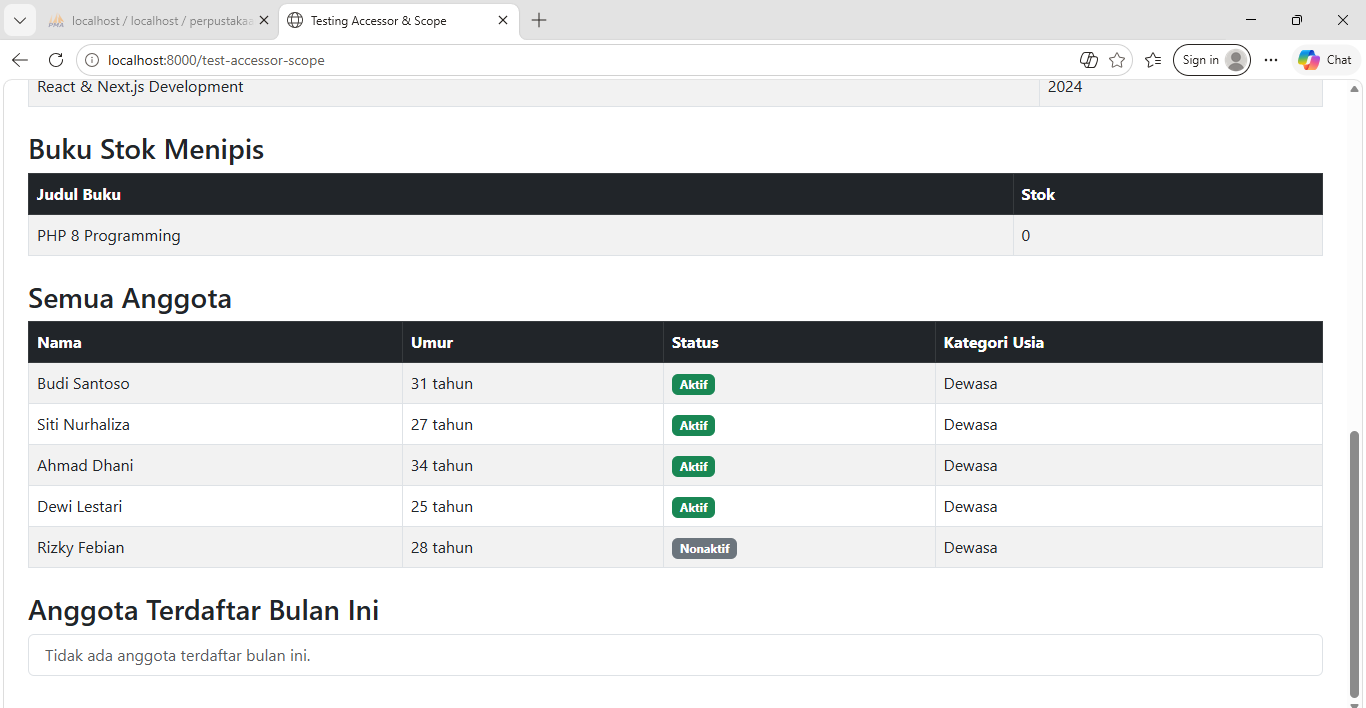
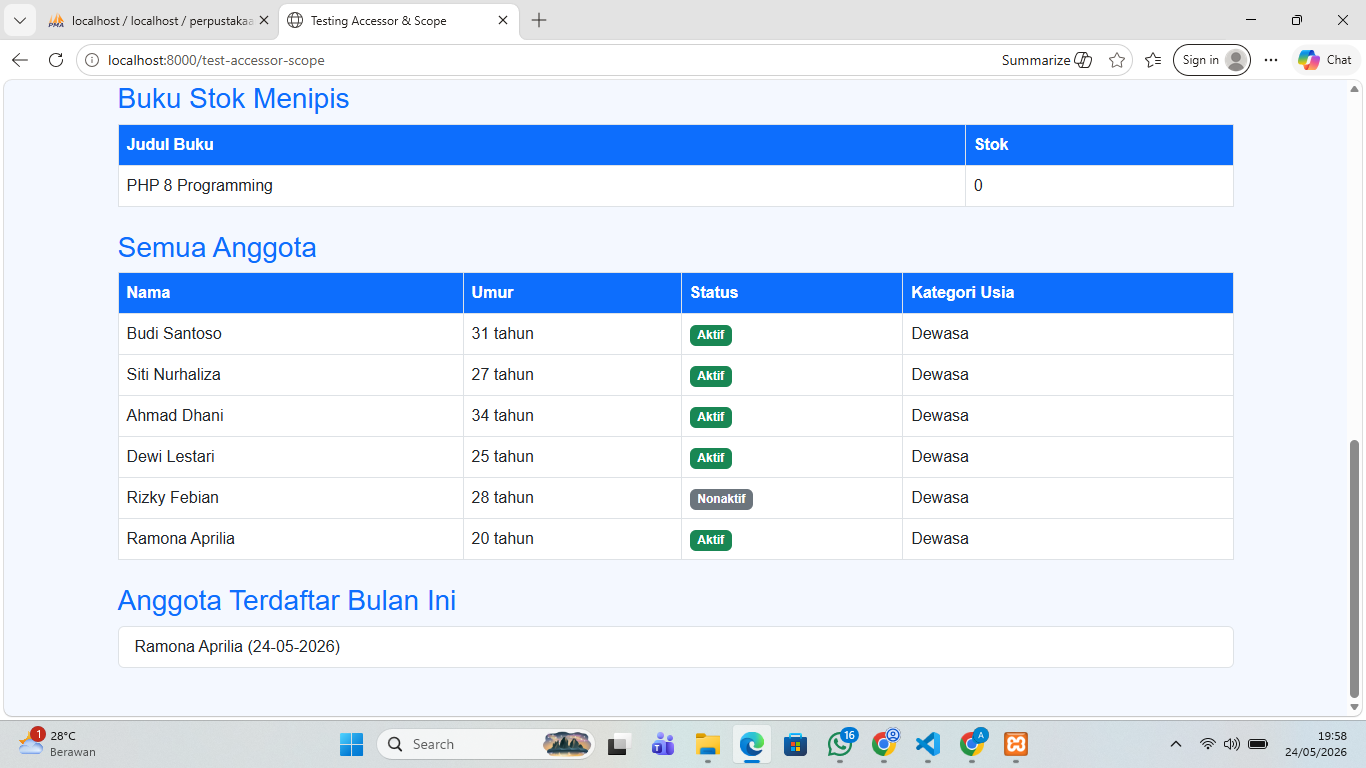
inisialisasi Project

diff --git a/sistem-perpustakaan (tugas 10)/routes/web.php b/sistem-perpustakaan (tugas 10)/routes/web.php
@@ -174,29 +174,77 @@ Route::get('/cek-kategori', function () {
 //TESTING ACCESSOR & SCOPE
 
 Route::get('/test-accessor-scope', function () {
-    $html = '<!DOCTYPE html>
+
+    $html = '
+    <!DOCTYPE html>
     <html>
     <head>
         <meta charset="UTF-8">
         <title>Testing Accessor & Scope</title>
+
         <link rel="stylesheet" href="https://cdn.jsdelivr.net/npm/bootstrap@5.3.0/dist/css/bootstrap.min.css">
+
+        <style>
+
+            body{
+                background:#f4f8ff;
+                font-family: Arial, sans-serif;
+            }
+
+            .judul{
+                color:#0d6efd;
+                font-weight:bold;
+            }
+
+            .custom-table thead{
+                background:#0d6efd !important;
+                color:white !important;
+            }
+
+            .custom-table th{
+                background:#0d6efd !important;
+                color:white !important;
+            }
+
+        </style>
+
     </head>
-    <body class="p-4">';
 
-    $html .= '<h1 class="mb-4">Testing Accessor & Scope</h1>';
+    <body class="p-4">
 
-    //Semua Buku: status_stok_badge & tahun_label 
-    $html .= '<h3 class="mt-4"> Semua Buku </h3>';
-    $html .= '<table class="table table-bordered table-striped">';
-    $html .= '<thead class="table-dark"><tr>
+    <div class="container">
+
+    <h1 class="mb-4 judul">
+        Testing Accessor & Scope
+    </h1>';
+
+
+
+    // =========================================
+    // SEMUA BUKU
+    // =========================================
+
+    $html .= '<h3 class="mt-4 text-primary">Semua Buku</h3>';
+
+    $html .= '
+    <table class="table table-bordered table-hover bg-white custom-table">
+
+        <thead>
+            <tr>
                 <th>Judul</th>
                 <th>Tahun</th>
                 <th>Stok</th>
                 <th>Status Stok</th>
                 <th>Label Tahun</th>
-              </tr></thead><tbody>';
+            </tr>
+        </thead>
+
+        <tbody>';
+
     foreach (Buku::all() as $buku) {
-        $html .= "<tr>
+
+        $html .= "
+        <tr>
             <td>{$buku->judul}</td>
             <td>{$buku->tahun_terbit}</td>
             <td>{$buku->stok}</td>
@@ -204,81 +252,182 @@ Route::get('/test-accessor-scope', function () {
             <td>{$buku->tahun_label}</td>
         </tr>";
     }
-    $html .= '</tbody></table>';
 
-    //Buku Terbaru (scope) 
-    $html .= '<h3 class="mt-4">Buku Terbaru </h3>';
-    $html .= '<table class="table table-bordered table-striped">';
-    $html .= '<thead class="table-dark"><tr>
+    $html .= '
+        </tbody>
+    </table>';
+
+
+
+    // =========================================
+    // BUKU TERBARU
+    // =========================================
+
+    $html .= '<h3 class="mt-4 text-primary">Buku Terbaru</h3>';
+
+    $html .= '
+    <table class="table table-bordered table-hover bg-white custom-table">
+
+        <thead>
+            <tr>
                 <th>Judul Buku</th>
                 <th>Tahun</th>
-              </tr></thead><tbody>';
+            </tr>
+        </thead>
+
+        <tbody>';
+
     $terbaru = Buku::terbaru()->get();
+
     if ($terbaru->isEmpty()) {
-        $html .= "<tr><td colspan='2' class='text-muted text-center'>Tidak ada data.</td></tr>";
+
+        $html .= "
+        <tr>
+            <td colspan='2' class='text-center text-muted'>
+                Tidak ada data
+            </td>
+        </tr>";
+
     } else {
+
         foreach ($terbaru as $buku) {
-            $html .= "<tr>
+
+            $html .= "
+            <tr>
                 <td>{$buku->judul}</td>
                 <td>{$buku->tahun_terbit}</td>
             </tr>";
         }
     }
-    $html .= '</tbody></table>';
 
-    //Buku Stok Menipis (scope) 
-    $html .= '<h3 class="mt-4"> Buku Stok Menipis </h3>';
-    $html .= '<table class="table table-bordered table-striped">';
-    $html .= '<thead class="table-dark"><tr>
+    $html .= '
+        </tbody>
+    </table>';
+
+
+
+    // =========================================
+    // BUKU STOK MENIPIS
+    // =========================================
+
+    $html .= '<h3 class="mt-4 text-primary">Buku Stok Menipis</h3>';
+
+    $html .= '
+    <table class="table table-bordered table-hover bg-white custom-table">
+
+        <thead>
+            <tr>
                 <th>Judul Buku</th>
                 <th>Stok</th>
-              </tr></thead><tbody>';
+            </tr>
+        </thead>
+
+        <tbody>';
+
     $menipis = Buku::stokMenipis()->get();
+
     if ($menipis->isEmpty()) {
-        $html .= "<tr><td colspan='2' class='text-muted text-center'>Tidak ada data.</td></tr>";
+
+        $html .= "
+        <tr>
+            <td colspan='2' class='text-center text-muted'>
+                Tidak ada data
+            </td>
+        </tr>";
+
     } else {
+
         foreach ($menipis as $buku) {
-            $html .= "<tr>
+
+            $html .= "
+            <tr>
                 <td>{$buku->judul}</td>
                 <td>{$buku->stok}</td>
             </tr>";
         }
     }
-    $html .= '</tbody></table>';
 
-    //Semua Anggota: status_badge & kategori_usia 
-    $html .= '<h3 class="mt-4">Semua Anggota</h3>';
-    $html .= '<table class="table table-bordered table-striped">';
-    $html .= '<thead class="table-dark"><tr>
+    $html .= '
+        </tbody>
+    </table>';
+
+
+
+    // =========================================
+    // SEMUA ANGGOTA
+    // =========================================
+
+    $html .= '<h3 class="mt-4 text-primary">Semua Anggota</h3>';
+
+    $html .= '
+    <table class="table table-bordered table-hover bg-white custom-table">
+
+        <thead>
+            <tr>
                 <th>Nama</th>
                 <th>Umur</th>
                 <th>Status</th>
                 <th>Kategori Usia</th>
-              </tr></thead><tbody>';
+            </tr>
+        </thead>
+
+        <tbody>';
+
     foreach (Anggota::all() as $anggota) {
-        $html .= "<tr>
+
+        $html .= "
+        <tr>
             <td>{$anggota->nama}</td>
             <td>{$anggota->umur} tahun</td>
             <td>{$anggota->status_badge}</td>
             <td>{$anggota->kategori_usia}</td>
         </tr>";
     }
-    $html .= '</tbody></table>';
 
-    //Anggota Terdaftar Bulan Ini (scope) 
-    $html .= '<h3 class="mt-4">Anggota Terdaftar Bulan Ini</h3>';
-    $html .= '<ul class="list-group mb-3">';
+    $html .= '
+        </tbody>
+    </table>';
+
+
+
+    // =========================================
+    // ANGGOTA TERDAFTAR BULAN INI
+    // =========================================
+
+    $html .= '
+    <h3 class="mt-4 text-primary">
+        Anggota Terdaftar Bulan Ini
+    </h3>';
+
+    $html .= '<ul class="list-group mb-4">';
+
     $bulanIni = Anggota::terdaftarBulanIni()->get();
+
     if ($bulanIni->isEmpty()) {
-        $html .= "<li class='list-group-item text-muted'>Tidak ada anggota terdaftar bulan ini.</li>";
+
+        $html .= "
+        <li class='list-group-item text-muted'>
+            Tidak ada anggota terdaftar bulan ini
+        </li>";
+
     } else {
+
         foreach ($bulanIni as $anggota) {
-            $html .= "<li class='list-group-item'>{$anggota->nama} — daftar: {$anggota->tanggal_daftar->format('d-m-Y')}</li>";
+
+            $html .= "
+            <li class='list-group-item'>
+                {$anggota->nama}
+                ({$anggota->tanggal_daftar->format('d-m-Y')})
+            </li>";
         }
     }
-    $html .= '</ul>';
 
-    $html .= '</body></html>';
+    $html .= '
+    </ul>
+
+    </div>
+    </body>
+    </html>';
 
     return $html;
 });
